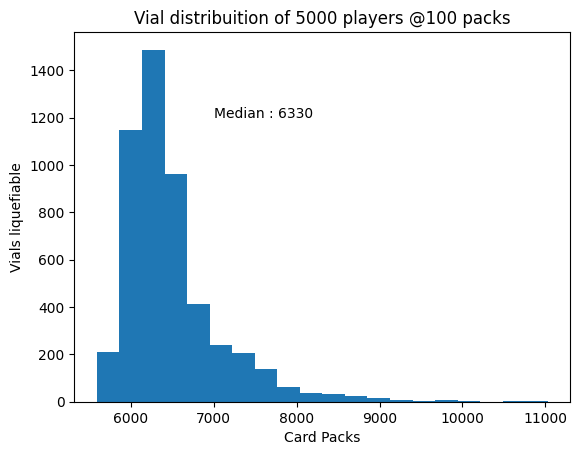
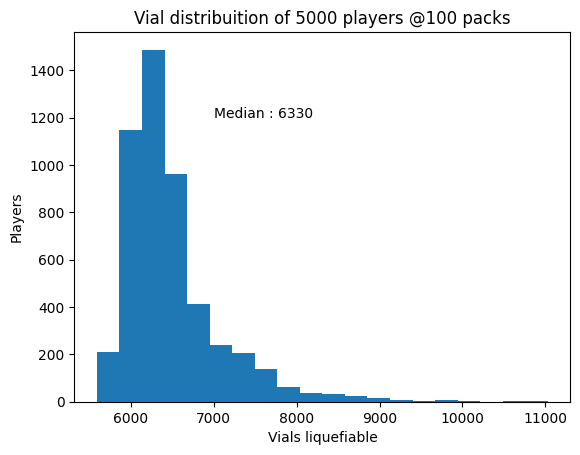
edited figure

Changed region(s): [[0.0, 0.3692, 0.0621, 0.6154], [0.4655, 0.9538, 0.6517, 0.9846]]

diff --git a/vials_critical_mass_combined.py b/vials_critical_mass_combined.py
@@ -203,8 +203,8 @@ avg_total_vials_list_ani =  [total_vials_list_ani[:,i].sum()/len(total_vials_lis
 #Histogram of N players at X packs
 hist_vials_per_player = plt.hist(total_vials_list[:,int((histogram_snapshot/pack_increment)-1)],histogram_bins) 
 plt.title(f'Vial distribuition of {simulations} players @{histogram_snapshot} packs')
-plt.xlabel('Card Packs')
-plt.ylabel('Vials liquefiable')
+plt.xlabel('Vials liquefiable')
+plt.ylabel('Players')
 plt.text(7000,1200,f'Median : {int(np.median(total_vials_list[:,int((histogram_snapshot/pack_increment)-1)]))}')
 plt.show(hist_vials_per_player)
 
